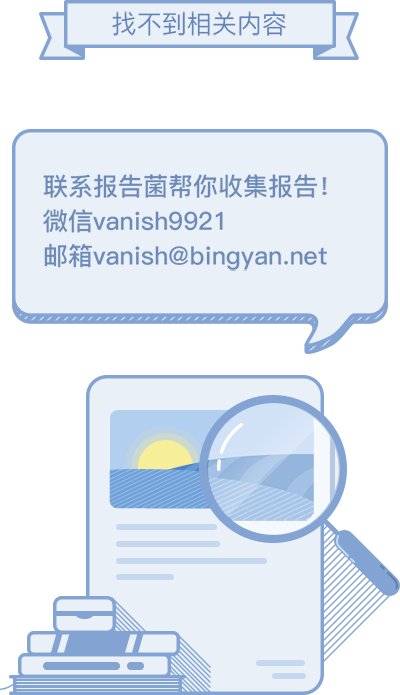
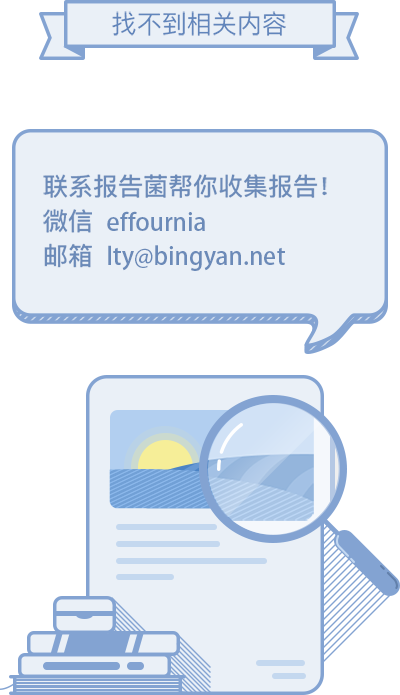
+ add different searchStr for catalog  * update contact  * fix bug when searchStr is undefined

Changed region(s): [[0.24, 0.3022, 0.81, 0.3928]]

diff --git a/src/components/Header/Header.vue b/src/components/Header/Header.vue
@@ -8,10 +8,11 @@
             <div v-show="isShowCatalog">
               <transition-group tag="ul" name="list">
                 <li v-for="(value, index) of catalog"
-                    :key="index"
-                    :style="{ transitionDelay: 0.02 * index + 's' }"
+                    :key="index + 1"
                     v-show="isShowCatalog"
-                    @click="clickCatalog">{{ value.name }}</li>
+                    :style="{ transitionDelay: 0.02 * index + 's' }"
+                    @click="clickCatalog"
+                    :data-search="value.searchStr">{{ value.name }}</li>
               </transition-group>
             </div>
           </transition>
@@ -46,22 +47,22 @@
         catalog: [
           new Catalog('全部', ''),
           new Catalog('公选课', '公选课'),
-          new Catalog('实验报告', ''),
-          new Catalog('自动化学院', ''),
-          new Catalog('电子信息与通信学院', ''),
-          new Catalog('软件学院', ''),
-          new Catalog('光学与电子信息学院', ''),
-          new Catalog('计算机科学与技术学院', ''),
-          new Catalog('电气与电子工程学院', ''),
-          new Catalog('材料科学与工程学院', ''),
-          new Catalog('生命科学与技术学院', ''),
-          new Catalog('化学与化工学院', ''),
-          new Catalog('物理学院', ''),
-          new Catalog('数学与统计学院', ''),
-          new Catalog('新闻与信息传播学院', ''),
-          new Catalog('建筑与城市规划学院', ''),
-          new Catalog('土木科学与工程学院', ''),
-          new Catalog('能源与动力工程学院', '')
+          new Catalog('实验报告', '实验报告'),
+          new Catalog('自动化学院', '自动化学院'),
+          new Catalog('电子信息与通信学院', '电子信息与通信学院'),
+          new Catalog('软件学院', '软件学院'),
+          new Catalog('光学与电子信息学院', '光学与电子信息学院'),
+          new Catalog('计算机科学与技术学院', '计算机学院'),
+          new Catalog('电气与电子工程学院', '电气与电子工程学院'),
+          new Catalog('材料科学与工程学院', '材料科学与工程学院'),
+          new Catalog('生命科学与技术学院', '生命科学与技术学院'),
+          new Catalog('化学与化工学院', '化学与化工学院'),
+          new Catalog('物理学院', '物理学院'),
+          new Catalog('数学与统计学院', '数学与统计学院'),
+          new Catalog('新闻与信息传播学院', '新闻与信息传播学院'),
+          new Catalog('建筑与城市规划学院', '建筑与城市规划学院'),
+          new Catalog('土木科学与工程学院', '土木科学与工程学院'),
+          new Catalog('能源与动力工程学院', '能源与动力工程学院')
         ]
       }
     },
@@ -78,7 +79,7 @@
         this.$root._bus.$emit('search', this.searchStr)
       },
       clickCatalog (e) {
-        this.searchStr = e.srcElement.innerText
+        this.searchStr = e.srcElement.dataset.search
         this.search()
       }
     },

diff --git a/src/components/Header/Header.scss b/src/components/Header/Header.scss
@@ -34,7 +34,7 @@
   .black-layout {
     position: fixed;
     display: block;
-    top: px2rem(91px);
+    top: px2rem(90px);
     right: 0;
     bottom: 0;
     left: 0;
@@ -119,7 +119,6 @@
  }
 
 .list-enter-active, .list-leave-active {
-  display: block !important;
   transition: all .6s;
 }
 .list-enter, .list-leave-active {

diff --git a/src/components/ReportList/ReportList.vue b/src/components/ReportList/ReportList.vue
@@ -63,6 +63,7 @@
     methods: {
       getData: function (searchValue) {
         this.isLoading = true
+        searchValue = searchValue || ''
         this.postOptions.keyword = searchValue
         this.$http.post('/list', this.postOptions, {emulateJSON: true})
           .then(function (response) {

diff --git a/README.md b/README.md
@@ -16,8 +16,16 @@ npm run build
 ```
 
 ## 更新记录
-### Unreleased
+### 0.3.1 - 2016-12-13
 #### Added
+- 增加分类与搜索字符串的对应
+
+#### Changed
+- 变更分类数据的结构
+- 更新找不到内容时的联系人信息
+
+#### Fixed
+- 修复搜索字符串未定义造成的问题
 
 ### 0.3.0 - 2016-12-12
 #### Added
